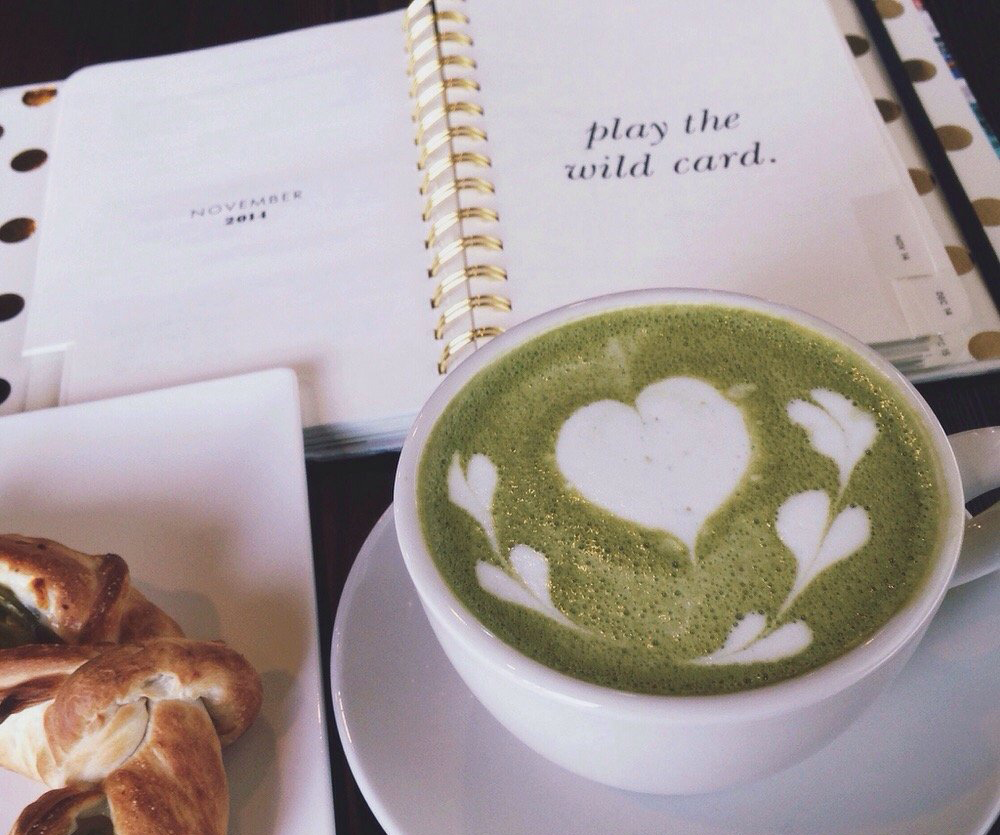
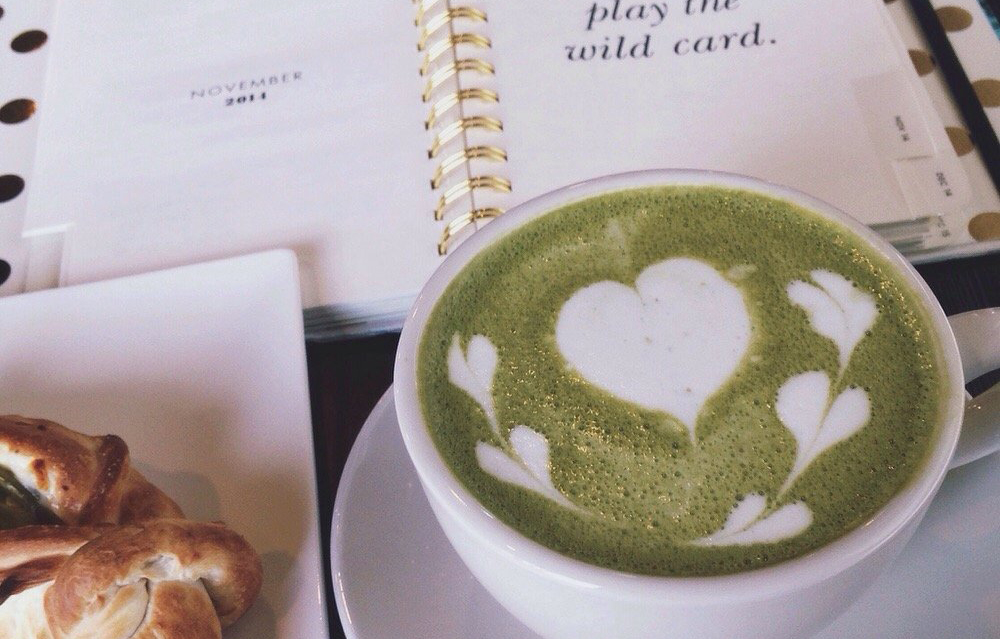
1

diff --git a/menu.html b/menu.html
@@ -26,7 +26,7 @@
     </nav>
   </div>
 </header>
- <img class="tomo" src="https://github.com/liapark/project3/blob/gh-pages/img/coffee-tomo-pretzel_2.jpg?raw=true">
+ <img class="tomo" src="https://github.com/liapark/project3/blob/gh-pages/img/o-2%20복사본.jpg?raw=true">
 
   <div class="welcome">
     <h1>MENU</h1>
